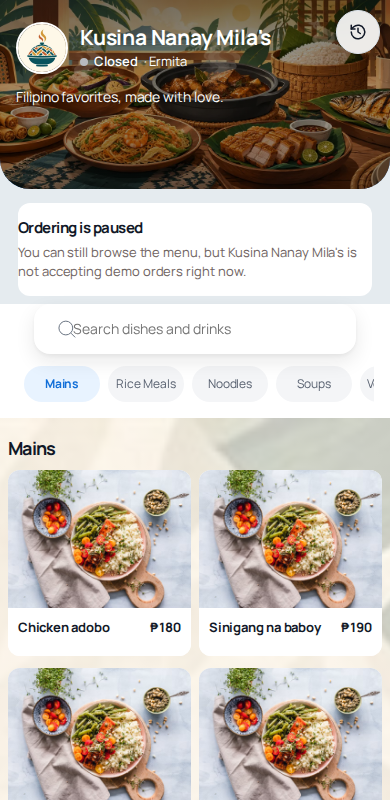
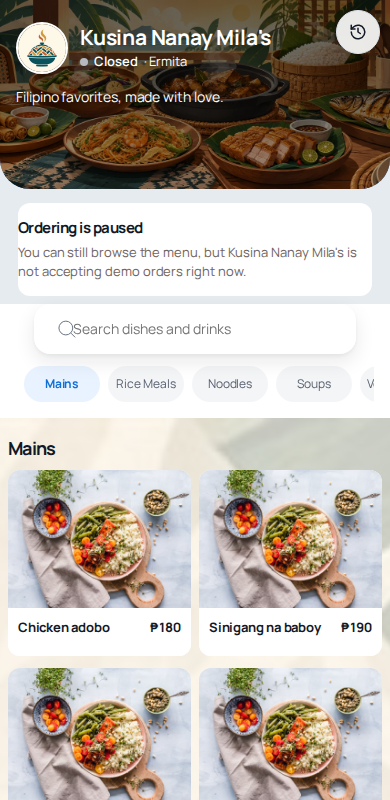
fix(menu): hold 4.5:1 for header text over any cover photo

diff --git a/dist/menu/menu.css b/dist/menu/menu.css
@@ -363,6 +363,10 @@ footer {
   --muted: #5B5F66;
   --accent-soft: color-mix(in srgb, var(--accent) 11%, white);
   --accent-text: color-mix(in srgb, var(--accent) 78%, black);
+  /* Overlay alphas: text rows (top to 90px above the edge) stay >= .55 so white text holds 4.5:1 on any photo. */
+  --hero-fade-top: .6;
+  --hero-fade-text: .56;
+  --hero-fade-end: .3;
   --accent-on-white: color-mix(in srgb, var(--accent) 78%, #000000);
   --frost: rgba(255, 255, 255, .82);
   --shadow-sm: 0 1px 2px rgba(20, 20, 20, .06), 0 1px 3px rgba(20, 20, 20, .05);
@@ -391,7 +395,7 @@ body:has(#menu-content) main { background: transparent; box-shadow: none; }
 .hero-band { position: relative; overflow: hidden; padding: 22px 16px 82px; border-radius: 0 0 30px 30px; background: var(--accent); color: #fff; isolation: isolate; }
 .hero-cover { position: absolute; inset: 0; z-index: -3; width: 100%; height: 100%; object-fit: cover; }
 .hero-cover[hidden] { display: none; }
-.hero-shade { position: absolute; inset: 0; z-index: -2; background: linear-gradient(180deg, rgba(0, 0, 0, .55), rgba(0, 0, 0, .35) 45%, rgba(0, 0, 0, .5)); }
+.hero-shade { position: absolute; inset: 0; z-index: -2; background: linear-gradient(180deg, rgba(0, 0, 0, var(--hero-fade-top)), rgba(0, 0, 0, var(--hero-fade-text)) calc(100% - 90px), rgba(0, 0, 0, var(--hero-fade-end))); }
 .hero-band:not(.has-cover) .hero-shade { display: none; }
 .motif { position: absolute; inset: 0; z-index: -1; }
 .hero-row { display: flex; align-items: center; gap: 12px; padding-right: 56px; }

diff --git a/dist/menu/index.html b/dist/menu/index.html
@@ -16,7 +16,7 @@
   <link rel="stylesheet" href="/theme.css?v=1">
   <link rel="stylesheet" href="/pwa.css?v=1">
   <link rel="stylesheet" href="/ui-components.css?v=19">
-  <link rel="stylesheet" href="/menu/menu.css?v=21">
+  <link rel="stylesheet" href="/menu/menu.css?v=22">
   <link rel="stylesheet" href="/menu/menu-sheets.css?v=1">
   <link rel="stylesheet" href="/menu/menu-table.css?v=1">
   <script src="/global-theme.js"></script>
